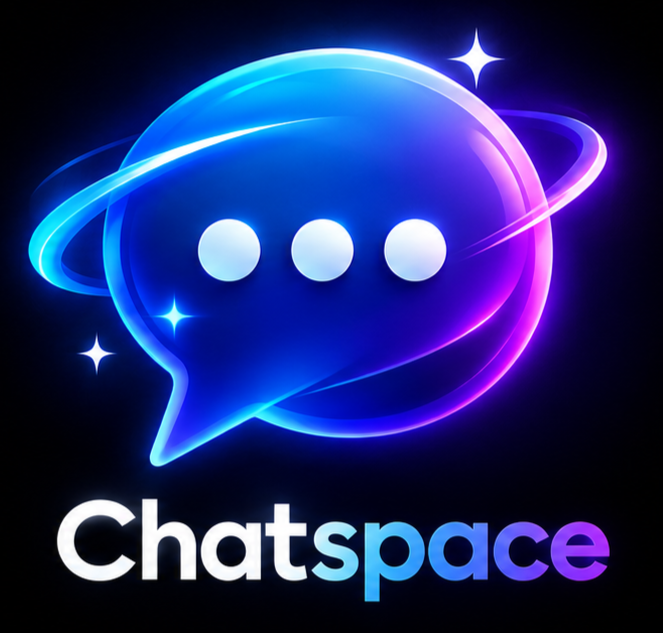
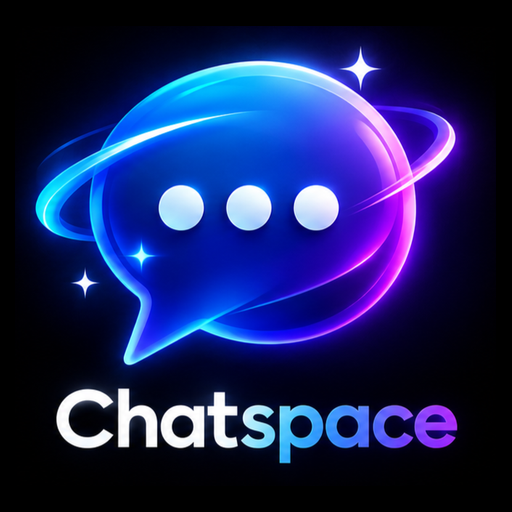
updated

diff --git a/index.html b/index.html
@@ -6,26 +6,26 @@
       name="viewport"
       content="width=device-width, initial-scale=1.0, maximum-scale=1.0, user-scalable=no, viewport-fit=cover"
     />
-    <meta name="theme-color" content="#10131c" />
+    <meta name="theme-color" content="#090c14" />
     <title>ChatSpace — Messages that matter</title>
     <link rel="manifest" href="/manifest.json" />
-    <meta name="theme-color" content="#2563eb" />
+    <link rel="apple-touch-icon" href="/icons/apple-touch-icon.png" />
     <link rel="preconnect" href="https://fonts.googleapis.com" />
     <link rel="preconnect" href="https://fonts.gstatic.com" crossorigin />
     <link
       href="https://fonts.googleapis.com/css2?family=DM+Sans:wght@400;500;600;700&family=Manrope:wght@500;600;700;800&display=swap"
       rel="stylesheet"
     />
-    <link rel="stylesheet" href="./style.css" />
-    <link rel="stylesheet" href="./ai.css" />
-    <link rel="stylesheet" href="./discover.css" />
+    <link rel="stylesheet" href="./style.css?v=17" />
+    <link rel="stylesheet" href="./ai.css?v=17" />
+    <link rel="stylesheet" href="./discover.css?v=17" />
     <script src="https://cdn.jsdelivr.net/npm/@supabase/supabase-js@2"></script>
-    <script src="./config.js"></script>
-    <script src="./enhance.js" defer></script>
-    <script src="./ai.js" defer></script>
-    <script src="./groupcall.js" defer></script>
-    <script src="./app.js" defer></script>
-    <script src="./discover.js" defer></script>
+    <script src="./config.js?v=17"></script>
+    <script src="./enhance.js?v=17" defer></script>
+    <script src="./ai.js?v=17" defer></script>
+    <script src="./groupcall.js?v=17" defer></script>
+    <script src="./app.js?v=17" defer></script>
+    <script src="./discover.js?v=17" defer></script>
     <style>
       #netlify-badge,
       [data-netlify-badge],

diff --git a/service-worker.js b/service-worker.js
@@ -1,4 +1,4 @@
-const CACHE_NAME = "chatspace-v17-mobile";
+const CACHE_NAME = "chatspace-v18-install";
 const APP_FILES = [
   "/",
   "/index.html",
@@ -23,7 +23,11 @@ const CDN_HOSTS = [
 
 self.addEventListener("install", (event) => {
   event.waitUntil(
-    caches.open(CACHE_NAME).then((cache) => cache.addAll(APP_FILES)),
+    caches
+      .open(CACHE_NAME)
+      .then((cache) =>
+        cache.addAll(APP_FILES.map((u) => new Request(u, { cache: "reload" }))),
+      ),
   );
 
   self.skipWaiting();
@@ -70,7 +74,7 @@ self.addEventListener("fetch", (event) => {
         return response;
       })
       .catch(async () => {
-        const cached = await caches.match(request);
+        const cached = await caches.match(request, { ignoreSearch: true });
         return (
           cached ||
           (request.mode === "navigate"

diff --git a/style.css b/style.css
@@ -4837,6 +4837,7 @@ html[data-theme="light"] .enh-panel {
   border-bottom-left-radius: 5px;
 }
 
+
 /* ===== Moments: likes, replies, forwarding ===== */
 .stats-tiles.four {
   grid-template-columns: repeat(4, 1fr);
@@ -5153,9 +5154,7 @@ button.mf-row:hover {
   background: rgba(255, 255, 255, 0.16);
   backdrop-filter: blur(10px);
   -webkit-backdrop-filter: blur(10px);
-  transition:
-    transform 0.12s ease,
-    background 0.12s ease;
+  transition: transform 0.12s ease, background 0.12s ease;
 }
 .mv-btn:active {
   transform: scale(0.92);
@@ -5234,9 +5233,7 @@ button.mf-row:hover {
   border-radius: 14px;
   background: var(--panel2);
   color: var(--text);
-  font:
-    16px "DM Sans",
-    sans-serif;
+  font: 16px "DM Sans", sans-serif;
   resize: none;
 }
 .mv-modal textarea:focus,
